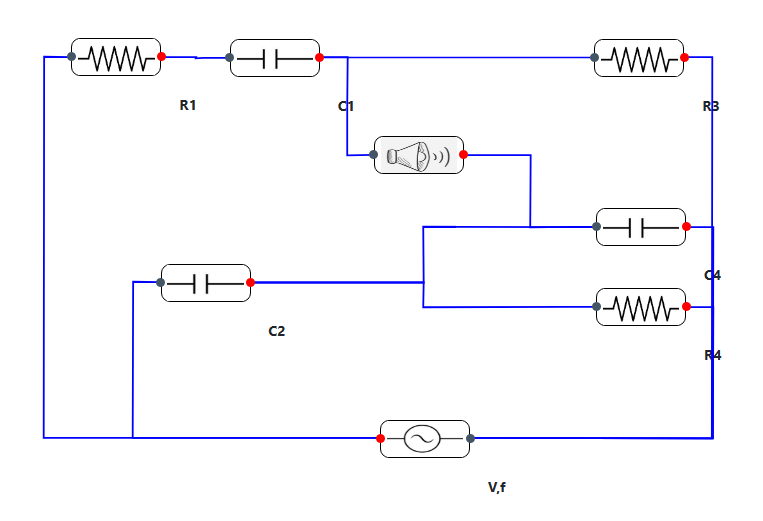
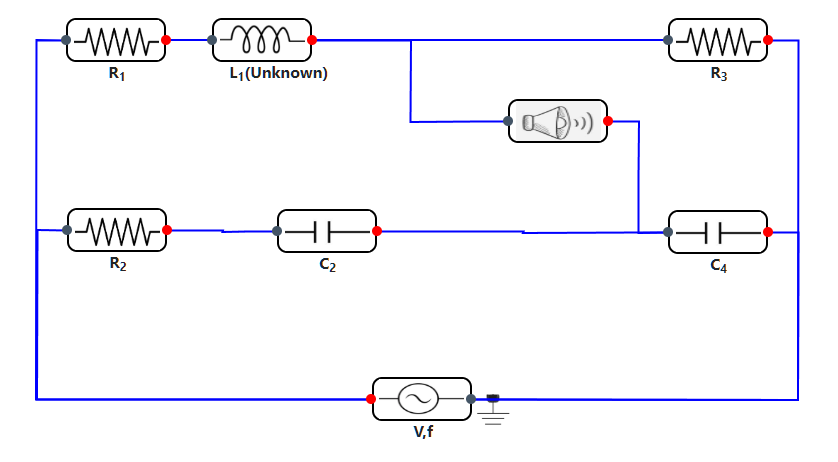
updates

Changed region(s): [[0.0301, 0.0303, 0.9646, 0.9697], [0.633, 0.9091, 0.6632, 0.9697], [0.211, 0.1818, 0.2713, 0.2121]]

diff --git a/index.html b/index.html
@@ -316,7 +316,7 @@
             <div id="light" class="white_content">
              <div style="text-align: center;">
               <h5>Owen's Bridge Experiment :<br></h5>
-              <img src="owens_bridge.png" width="400px" height="320px">
+              <img src="circuit.png" width="400px" height="320px">
              </div>
              <ul>&bull;Pick up resistances, capacitor, inductor, ac source and speaker from the toolbox.</ul>
              <ul>&bull;Make connections as shown in the figure to form a Owen's bridge (red dot act as source and black dot act as destination).</ul>
@@ -449,9 +449,9 @@ top: 40px;right: 63px;">
 
                 <br>
                 
-                <label class="form form-control">Enter Voltage:</label>
+                <label class="form form-control">Enter Voltage(in Volt):</label>
                 <input class="form form-control" type="number" id="data5"><br>
-                <label class="form form-control">Enter Frequency:</label>
+                <label class="form form-control">Enter Frequency(in Hz):</label>
                 <input class="form form-control" type="number" id="data6"><br>
                 <label>Enter R<sub>2</sub>(in &#8486):</label>
                 <input class="inputRange form form-control" id="rangeInput" type="range" min="1" max="400"
@@ -1168,7 +1168,7 @@ var p_left=document.querySelector('#diagram').getBoundingClientRect().left-40;
                 .appendTo("#diagram");
                 $("<div style= 'position: absolute;top:" + (v_top-25 )+ "px ; left:" + (v_left+60) + "px ;'><img  src='gnd.png'></div>").appendTo('#diagram');
 
-              $("<div id='abc' style = 'position: absolute;top:" + L_top + "px ; left:" + L_left + "px ;'><b>L<sub>1</sub>(Unknown)</b></div>")
+              $("<div id='abc' style = 'position: absolute;top:" + L_top + "px ; left:" + (L_left-25) + "px ;'><b>L<sub>1</sub>(Unknown)</b></div>")
                 .appendTo("#diagram");
               $("<div id='bcd' style = 'position: absolute;top:" + c_top2 + "px ; left:" + c_left2 + "px ;'><b>C<sub>2</sub></b></div>")
                 .appendTo("#diagram");
